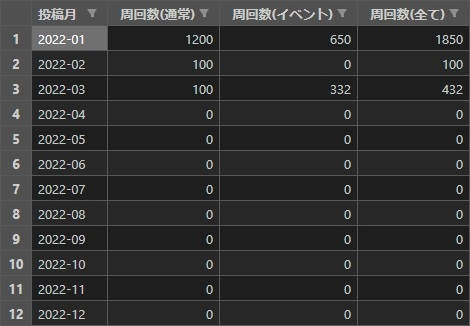
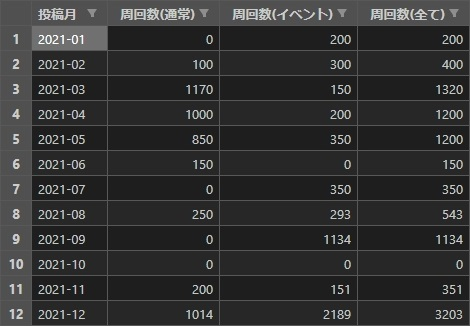
[d_upd] README更新
下記コミットを反映
  - 周回報告全体概要生成に引数を追加

diff --git a/README.md b/README.md
@@ -9,9 +9,11 @@
   - [2.2. 実行結果](#22-実行結果)
     - [2.2.1. 生成結果ファイル](#221-生成結果ファイル)
       - [2.2.1.1. 周回報告一覧ファイル](#2211-周回報告一覧ファイル)
-      - [2.2.1.2. 周回報告月間ユーザ全体概要ファイル](#2212-周回報告月間ユーザ全体概要ファイル)
-      - [2.2.1.3. 周回報告月間クエスト全体概要ファイル](#2213-周回報告月間クエスト全体概要ファイル)
-      - [2.2.1.4. 周回報告個人概要ファイル](#2214-周回報告個人概要ファイル)
+      - [2.2.1.2. 周回報告年間ユーザ全体概要ファイル](#2212-周回報告年間ユーザ全体概要ファイル)
+      - [2.2.1.3. 周回報告年間クエスト全体概要ファイル](#2213-周回報告年間クエスト全体概要ファイル)
+      - [2.2.1.4. 周回報告月間ユーザ全体概要ファイル](#2214-周回報告月間ユーザ全体概要ファイル)
+      - [2.2.1.5. 周回報告月間クエスト全体概要ファイル](#2215-周回報告月間クエスト全体概要ファイル)
+      - [2.2.1.6. 周回報告個人概要ファイル](#2216-周回報告個人概要ファイル)
     - [2.2.2. マージ結果ファイル](#222-マージ結果ファイル)
 - [3. 動作確認済み環境](#3-動作確認済み環境)
 - [4. セットアップ手順](#4-セットアップ手順)
@@ -25,8 +27,10 @@
   - [5.2. 周回報告全体概要生成](#52-周回報告全体概要生成)
     - [5.2.1. 実行コマンド](#521-実行コマンド)
     - [5.2.2. 実行結果](#522-実行結果)
-      - [5.2.2.1. 周回報告月間ユーザ全体概要ファイル](#5221-周回報告月間ユーザ全体概要ファイル)
-      - [5.2.2.2. 周回報告月間クエスト全体概要ファイル](#5222-周回報告月間クエスト全体概要ファイル)
+      - [5.2.2.1. 周回報告年間ユーザ全体概要ファイル](#5221-周回報告年間ユーザ全体概要ファイル)
+      - [5.2.2.2. 周回報告年間クエスト全体概要ファイル](#5222-周回報告年間クエスト全体概要ファイル)
+      - [5.2.2.3. 周回報告月間ユーザ全体概要ファイル](#5223-周回報告月間ユーザ全体概要ファイル)
+      - [5.2.2.4. 周回報告月間クエスト全体概要ファイル](#5224-周回報告月間クエスト全体概要ファイル)
   - [5.3. 周回報告個人概要生成](#53-周回報告個人概要生成)
     - [5.3.1. 実行コマンド](#531-実行コマンド)
     - [5.3.2. 実行結果](#532-実行結果)
@@ -74,7 +78,7 @@ FGOの周回報告を収集・集計し、csvファイルに保存する。
 
 ## 2.2. 実行結果
 
-4種類の生成結果ファイルと4種類のマージ結果ファイルが生成される。
+生成結果ファイルとマージ結果ファイルが生成される。
 
 ここでは実行結果の例を示す。また、`VSCode Excel Viewer`で開いている。
 
@@ -86,38 +90,60 @@ FGOの周回報告を収集・集計し、csvファイルに保存する。
 
 周回報告一覧である。
 
-  - 年月：2022-01
+  - 年月：2021-01
 
 ![farm_report_list](./pic/farm_report_list.JPG)
 
 
-#### 2.2.1.2. 周回報告月間ユーザ全体概要ファイル
+#### 2.2.1.2. 周回報告年間ユーザ全体概要ファイル
+
+周回報告を基にした、クエスト種別ごとの年間周回概要(ユーザ編)である。
+
+  - 年月：2021
+  - クエスト種別：全て(通常クエ＋イベクエ)
+  - 最低周回数：100周以上
+
+![farm_report_yearly_user_total_summary](./pic/farm_report_total_summary/yearly_user.JPG)
+
+
+#### 2.2.1.3. 周回報告年間クエスト全体概要ファイル
+
+周回報告による、クエスト種別ごとの年間周回概要(クエスト編)である。
+
+  - 年月：2021
+  - クエスト種別：全て(通常クエ＋イベクエ)
+  - 最低周回数：100周以上
+
+![farm_report_yearly_quest_total_summary](./pic/farm_report_total_summary/yearly_quest.JPG)
+
+
+#### 2.2.1.4. 周回報告月間ユーザ全体概要ファイル
 
 周回報告を基にした、クエスト種別ごとの月間周回概要(ユーザ編)である。
 
-  - 年月：2022-01
+  - 年月：2021-01
   - クエスト種別：全て(通常クエ＋イベクエ)
   - 最低周回数：100周以上
 
-![farm_report_total_summary](./pic/farm_report_user_total_summary.JPG)
+![farm_report_monthly_user_total_summary](./pic/farm_report_total_summary/monthly_user.JPG)
 
 
-#### 2.2.1.3. 周回報告月間クエスト全体概要ファイル
+#### 2.2.1.5. 周回報告月間クエスト全体概要ファイル
 
 周回報告による、クエスト種別ごとの月間周回概要(クエスト編)である。
 
-  - 年月：2022-01
+  - 年月：2021-01
   - クエスト種別：全て(通常クエ＋イベクエ)
   - 最低周回数：100周以上
 
-![farm_report_total_summary](./pic/farm_report_quest_total_summary.JPG)
+![farm_report_monthly_quest_total_summary](./pic/farm_report_total_summary/monthly_quest.JPG)
 
 
-#### 2.2.1.4. 周回報告個人概要ファイル
+#### 2.2.1.6. 周回報告個人概要ファイル
 
 周回報告による、ユーザ(Twitter)ごとの周回概要である。
 
-  - 年：2022
+  - 年：2021
   - ユーザID：silverag_corgi
 
 ![farm_report_individual_summary](./pic/farm_report_individual_summary.JPG)
@@ -125,7 +151,7 @@ FGOの周回報告を収集・集計し、csvファイルに保存する。
 
 ### 2.2.2. マージ結果ファイル
 
-上記4種類の生成結果ファイルを各々Excelファイルにマージしただけであるため、実行結果の例は省略する。
+上記の生成結果ファイルを各々Excelファイルにマージしただけであるため、実行結果の例は省略する。
 
 
 # 3. 動作確認済み環境
@@ -206,7 +232,7 @@ Group B - only one required arguments:
 実行例：
 ```cmd
 > cd fgo-farm-report-collection
-> poetry run list-gen -m 2022-01
+> poetry run list-gen -m 2021-01
 ```
 
 
@@ -222,7 +248,7 @@ Group B - only one required arguments:
 | 種類         | ファイルパス                           |
 | ------------ | -------------------------------------- |
 | フォーマット | ./dest/farm_report_list/[収集年月].csv |
-| 例           | ./dest/farm_report_list/2022-01.csv    |
+| 例           | ./dest/farm_report_list/2021-01.csv    |
 
 また、下記画像は実行結果の例である。`VSCode Excel Viewer`で開いている。
 
@@ -239,7 +265,7 @@ Group B - only one required arguments:
 ヘルプ：
 ```cmd
 > poetry run tot-gen -h
-usage: tot-gen [-h] (-y COL_YEAR | -m COL_YEAR_MONTH) (-mu | -mq) (-a MIN_NUM_OF_ALL_QUEST | -n MIN_NUM_OF_NORMAL_QUEST | -e MIN_NUM_OF_EVENT_QUEST | -b MIN_NUM_OF_QUEST_BY_BATCH) [-l] [-u]
+usage: tot-gen [-h] (-y COL_YEAR | -m COL_YEAR_MONTH) (-yu | -yq | -mu | -mq) (-a MIN_NUM_OF_ALL_QUEST | -n MIN_NUM_OF_NORMAL_QUEST | -e MIN_NUM_OF_EVENT_QUEST | -b MIN_NUM_OF_QUEST_BY_BATCH) [-l] [-u]
 
 周回報告全体概要生成
 周回報告一覧ファイルを基に周回報告全体概要ファイルを生成します
@@ -261,6 +287,12 @@ Group B2 - only one required arguments:
   1つのみ必須な引数
   処理を指定します
 
+  -yu, --generate_yearly_user_total_summary
+                        周回報告年間ユーザ全体概要生成要否
+                        収集年を指定した場合、周回報告年間ユーザ全体概要を生成します
+  -yq, --generate_yearly_quest_total_summary
+                        周回報告年間クエスト全体概要生成要否
+                        収集年を指定した場合、周回報告年間クエスト全体概要を生成します
   -mu, --generate_monthly_user_total_summary
                         周回報告月間ユーザ全体概要生成要否
                         周回報告月間ユーザ全体概要を生成します
@@ -297,43 +329,70 @@ Group C - optional arguments:
 実行例：
 ```cmd
 > cd fgo-farm-report-collection
-> poetry run tot-gen -m 2022-01 -u -a 100
-> poetry run tot-gen -m 2022-01 -q -a 100
+> poetry run tot-gen -m 2021-01 -u -a 100
+> poetry run tot-gen -m 2021-01 -q -a 100
 ```
 
 
 ### 5.2.2. 実行結果
 
-周回報告一覧ファイルが[周回報告一覧生成](#51-周回報告一覧生成)と同様に生成され、
-周回報告全体概要ファイルと周回報告クエスト全体概要ファイルが生成される。
+周回報告一覧ファイルが[周回報告一覧生成](#51-周回報告一覧生成)と同様に生成され、周回報告全体概要ファイルが生成される。
 
 
-#### 5.2.2.1. 周回報告月間ユーザ全体概要ファイル
+#### 5.2.2.1. 周回報告年間ユーザ全体概要ファイル
+
+下記パスに生成される。
+
+| 種類         | ファイルパス                                                                            |
+| ------------ | --------------------------------------------------------------------------------------- |
+| フォーマット | ./dest/farm_report_total_summary/yearly_user/[収集年]\_[クエスト種別]\_[最低周回数].csv |
+| 例           | ./dest/farm_report_total_summary/yearly_user/2021_全て_100周以上.csv                    |
+
+また、下記画像は実行結果の例である。`VSCode Excel Viewer`で開いている。
+
+![farm_report_yearly_user_total_summary](./pic/farm_report_total_summary/yearly_user.JPG)
+
+
+#### 5.2.2.2. 周回報告年間クエスト全体概要ファイル
+
+下記パスに生成される。
+
+| 種類         | ファイルパス                                                                             |
+| ------------ | ---------------------------------------------------------------------------------------- |
+| フォーマット | ./dest/farm_report_total_summary/yearly_quest/[収集年]\_[クエスト種別]\_[最低周回数].csv |
+| 例           | ./dest/farm_report_total_summary/yearly_quest/2021_全て_100周以上.csv                    |
+
+また、下記画像は実行結果の例である。`VSCode Excel Viewer`で開いている。
+
+![farm_report_yearly_quest_total_summary](./pic/farm_report_total_summary/yearly_quest.JPG)
+
+
+#### 5.2.2.3. 周回報告月間ユーザ全体概要ファイル
 
 下記パスに生成される。
 
 | 種類         | ファイルパス                                                                               |
 | ------------ | ------------------------------------------------------------------------------------------ |
 | フォーマット | ./dest/farm_report_total_summary/monthly_user/[収集年月]\_[クエスト種別]\_[最低周回数].csv |
-| 例           | ./dest/farm_report_total_summary/monthly_user/2022-01_全て_100周以上.csv                   |
+| 例           | ./dest/farm_report_total_summary/monthly_user/2021-01_全て_100周以上.csv                   |
 
 また、下記画像は実行結果の例である。`VSCode Excel Viewer`で開いている。
 
-![farm_report_total_summary](./pic/farm_report_user_total_summary.JPG)
+![farm_report_monthly_user_total_summary](./pic/farm_report_total_summary/monthly_user.JPG)
 
 
-#### 5.2.2.2. 周回報告月間クエスト全体概要ファイル
+#### 5.2.2.4. 周回報告月間クエスト全体概要ファイル
 
 下記パスに生成される。
 
 | 種類         | ファイルパス                                                                                |
 | ------------ | ------------------------------------------------------------------------------------------- |
 | フォーマット | ./dest/farm_report_total_summary/monthly_quest/[収集年月]\_[クエスト種別]\_[最低周回数].csv |
-| 例           | ./dest/farm_report_total_summary/monthly_quest/2022-01_全て_100周以上.csv                   |
+| 例           | ./dest/farm_report_total_summary/monthly_quest/2021-01_全て_100周以上.csv                   |
 
 また、下記画像は実行結果の例である。`VSCode Excel Viewer`で開いている。
 
-![farm_report_total_summary](./pic/farm_report_quest_total_summary.JPG)
+![farm_report_monthly_quest_total_summary](./pic/farm_report_total_summary/monthly_quest.JPG)
 
 
 ## 5.3. 周回報告個人概要生成
@@ -374,7 +433,7 @@ Group C - optional arguments:
 実行例：
 ```cmd
 > cd fgo-farm-report-collection
-> poetry run ind-gen 2022 silverag_corgi
+> poetry run ind-gen 2021 silverag_corgi
 ```
 
 
@@ -390,7 +449,7 @@ Group C - optional arguments:
 | 種類         | ファイルパス                                                            |
 | ------------ | ----------------------------------------------------------------------- |
 | フォーマット | ./dest/farm_report_individual_summary/[収集年]\_[ユーザID(Twitter)].csv |
-| 例           | ./dest/farm_report_individual_summary/2022_silverag_corgi.csv           |
+| 例           | ./dest/farm_report_individual_summary/2021_silverag_corgi.csv           |
 
 また、下記画像は実行結果の例である。`VSCode Excel Viewer`で開いている。
 
@@ -446,7 +505,7 @@ Group C - optional arguments:
 
 ### 5.4.2. 実行結果
 
-4種類のマージ結果ファイルが生成される。
+マージ結果ファイルが生成される。
 
 
 #### 5.4.2.1. 周回報告一覧マージ結果ファイル
@@ -514,12 +573,14 @@ Group C - optional arguments:
 ## 7.2. 実行例
 
 ```cmd
-> poetry run list-gen -y 2022
+> poetry run list-gen -y 2021
 
-> poetry run tot-gen -y 2022 -mu -b 0
-> poetry run tot-gen -y 2022 -mq -b 0
+> poetry run tot-gen -y 2021 -yu -b 0
+> poetry run tot-gen -y 2021 -yq -b 0
+> poetry run tot-gen -y 2021 -mu -b 0
+> poetry run tot-gen -y 2021 -mq -b 0
 
-> poetry run ind-gen 2022 silverag_corgi
+> poetry run ind-gen 2021 silverag_corgi
 
 > poetry run merge -l
 > poetry run merge -mu
